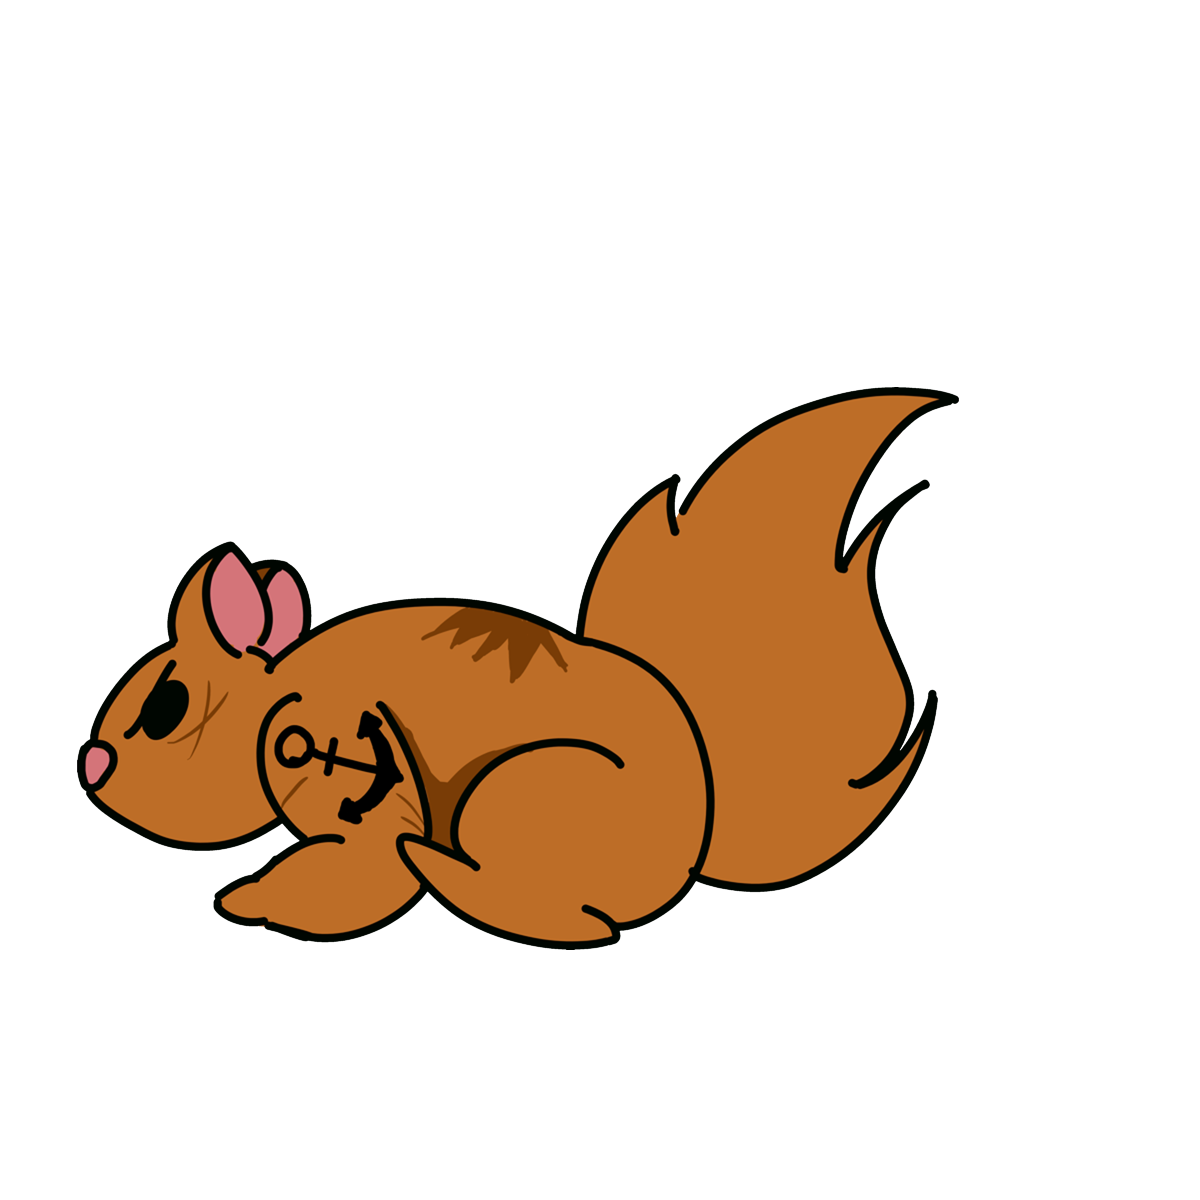
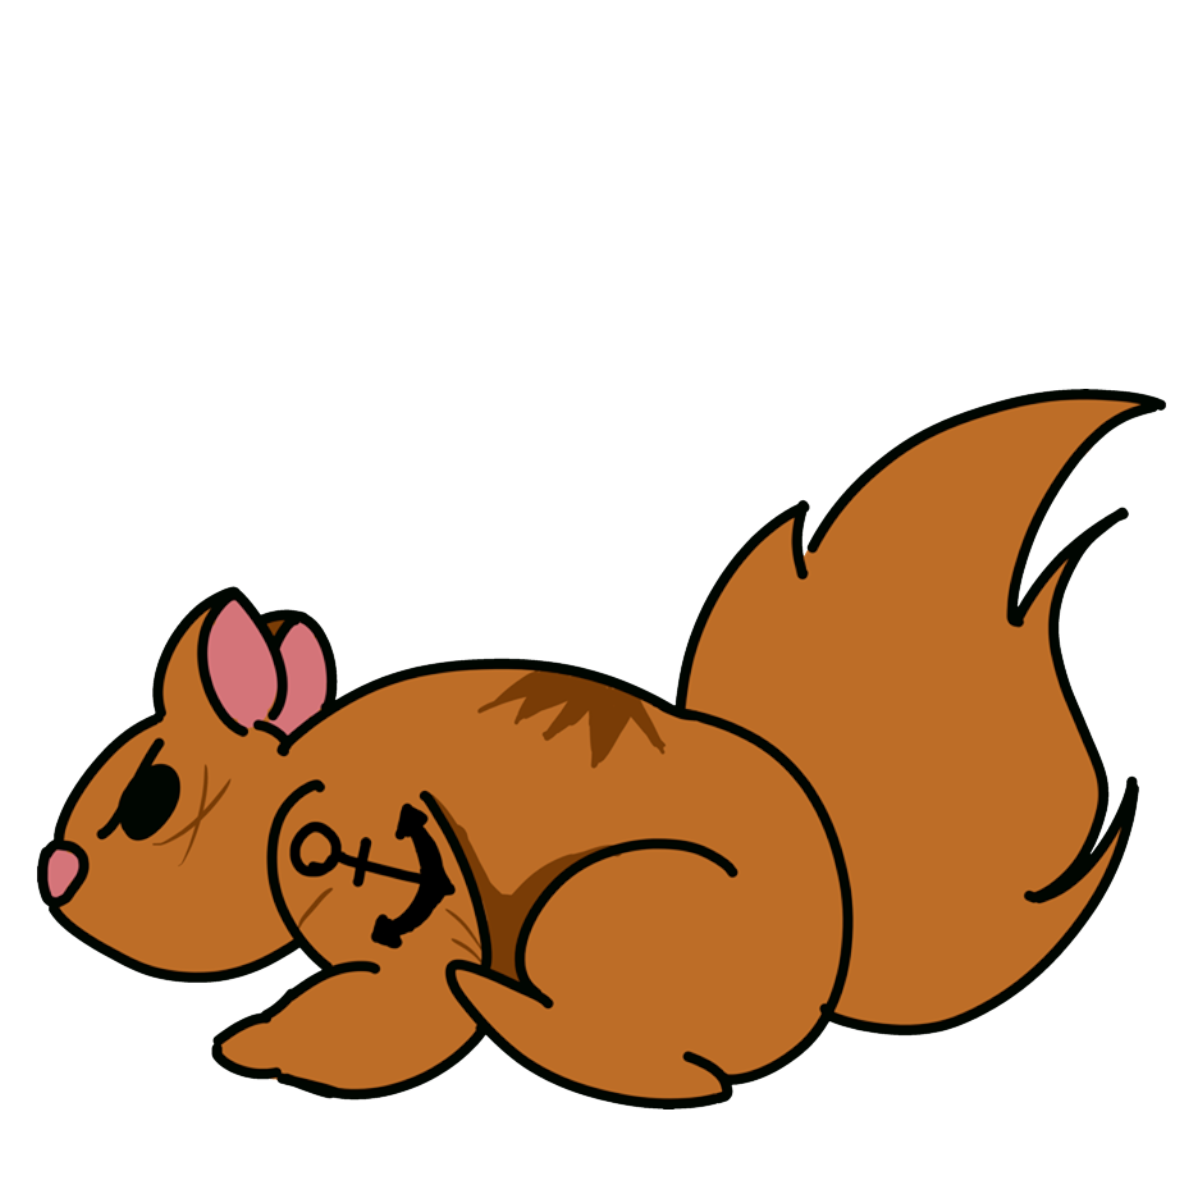
fixed enemy img and facing dir

Changed region(s): [[0.0308, 0.3083, 0.9867, 0.925], [0.925, 0.4008, 0.9558, 0.4317]]

diff --git a/Assets/Scripts/Enemy.cs b/Assets/Scripts/Enemy.cs
@@ -73,10 +73,11 @@ public class Enemy : MonoBehaviour
             StartCoroutine(GameManager.Instance.Player.Damage(damage));
         }
         //~ flip sprite
-        if (rb.velocity.x > 0) sprite.flipX = this.facingRight;
-        else if (rb.velocity.x < 0) sprite.flipX = !this.facingRight;
+        if (rb.velocity.x > 0) sprite.flipX = !this.facingRight;
+        else if (rb.velocity.x < 0) sprite.flipX = this.facingRight;
         //~ set animator values
-        anim.SetFloat("Speed", alive ? rb.velocity.magnitude : 0f);
+        // TODO change this in the future
+        anim.SetFloat("Speed", alive && inRange ? 1f : 0f);
         //Damage Animation
         timer -= Time.fixedDeltaTime;
         dTimer = Mathf.Lerp(1, 0, timer / damageEffectDecay);
